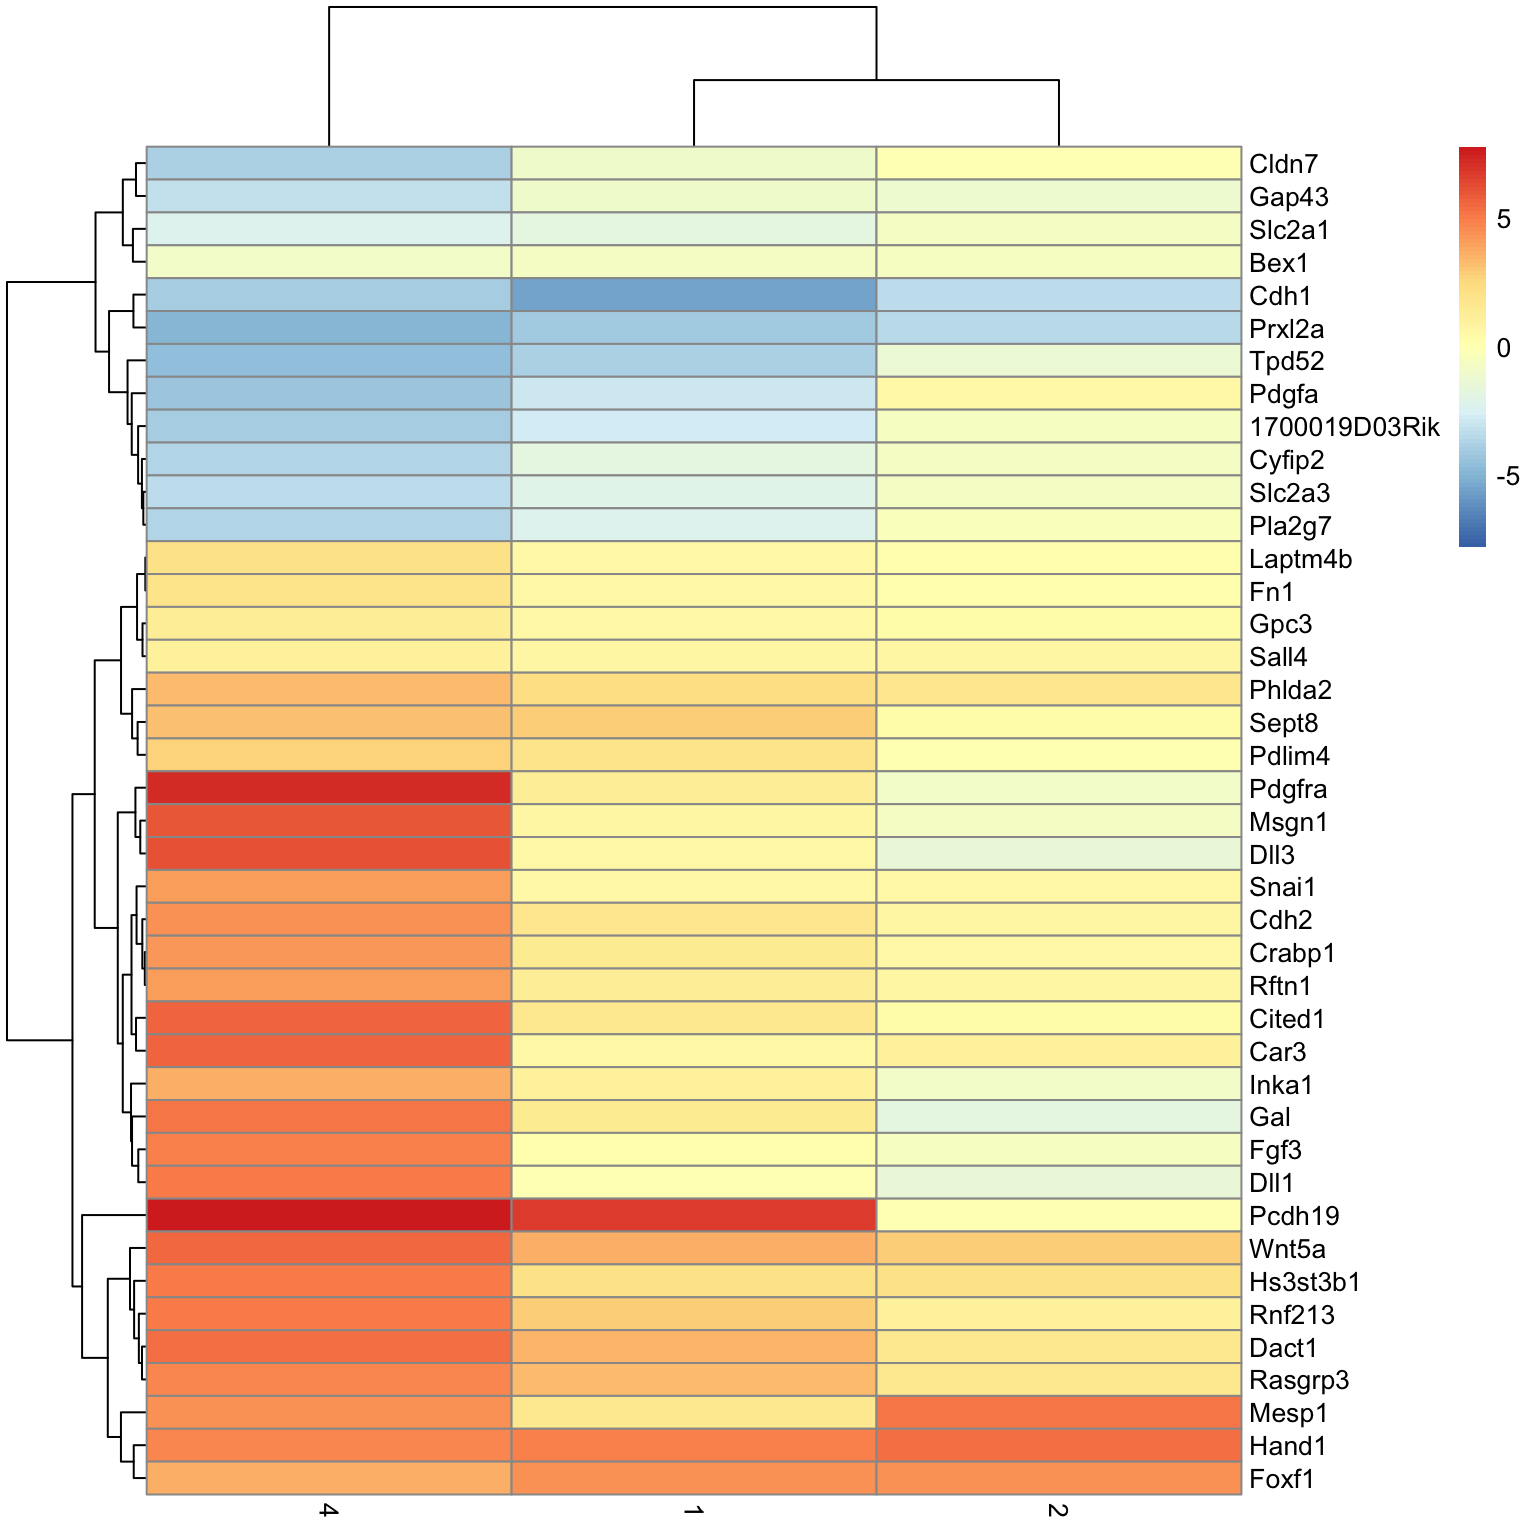
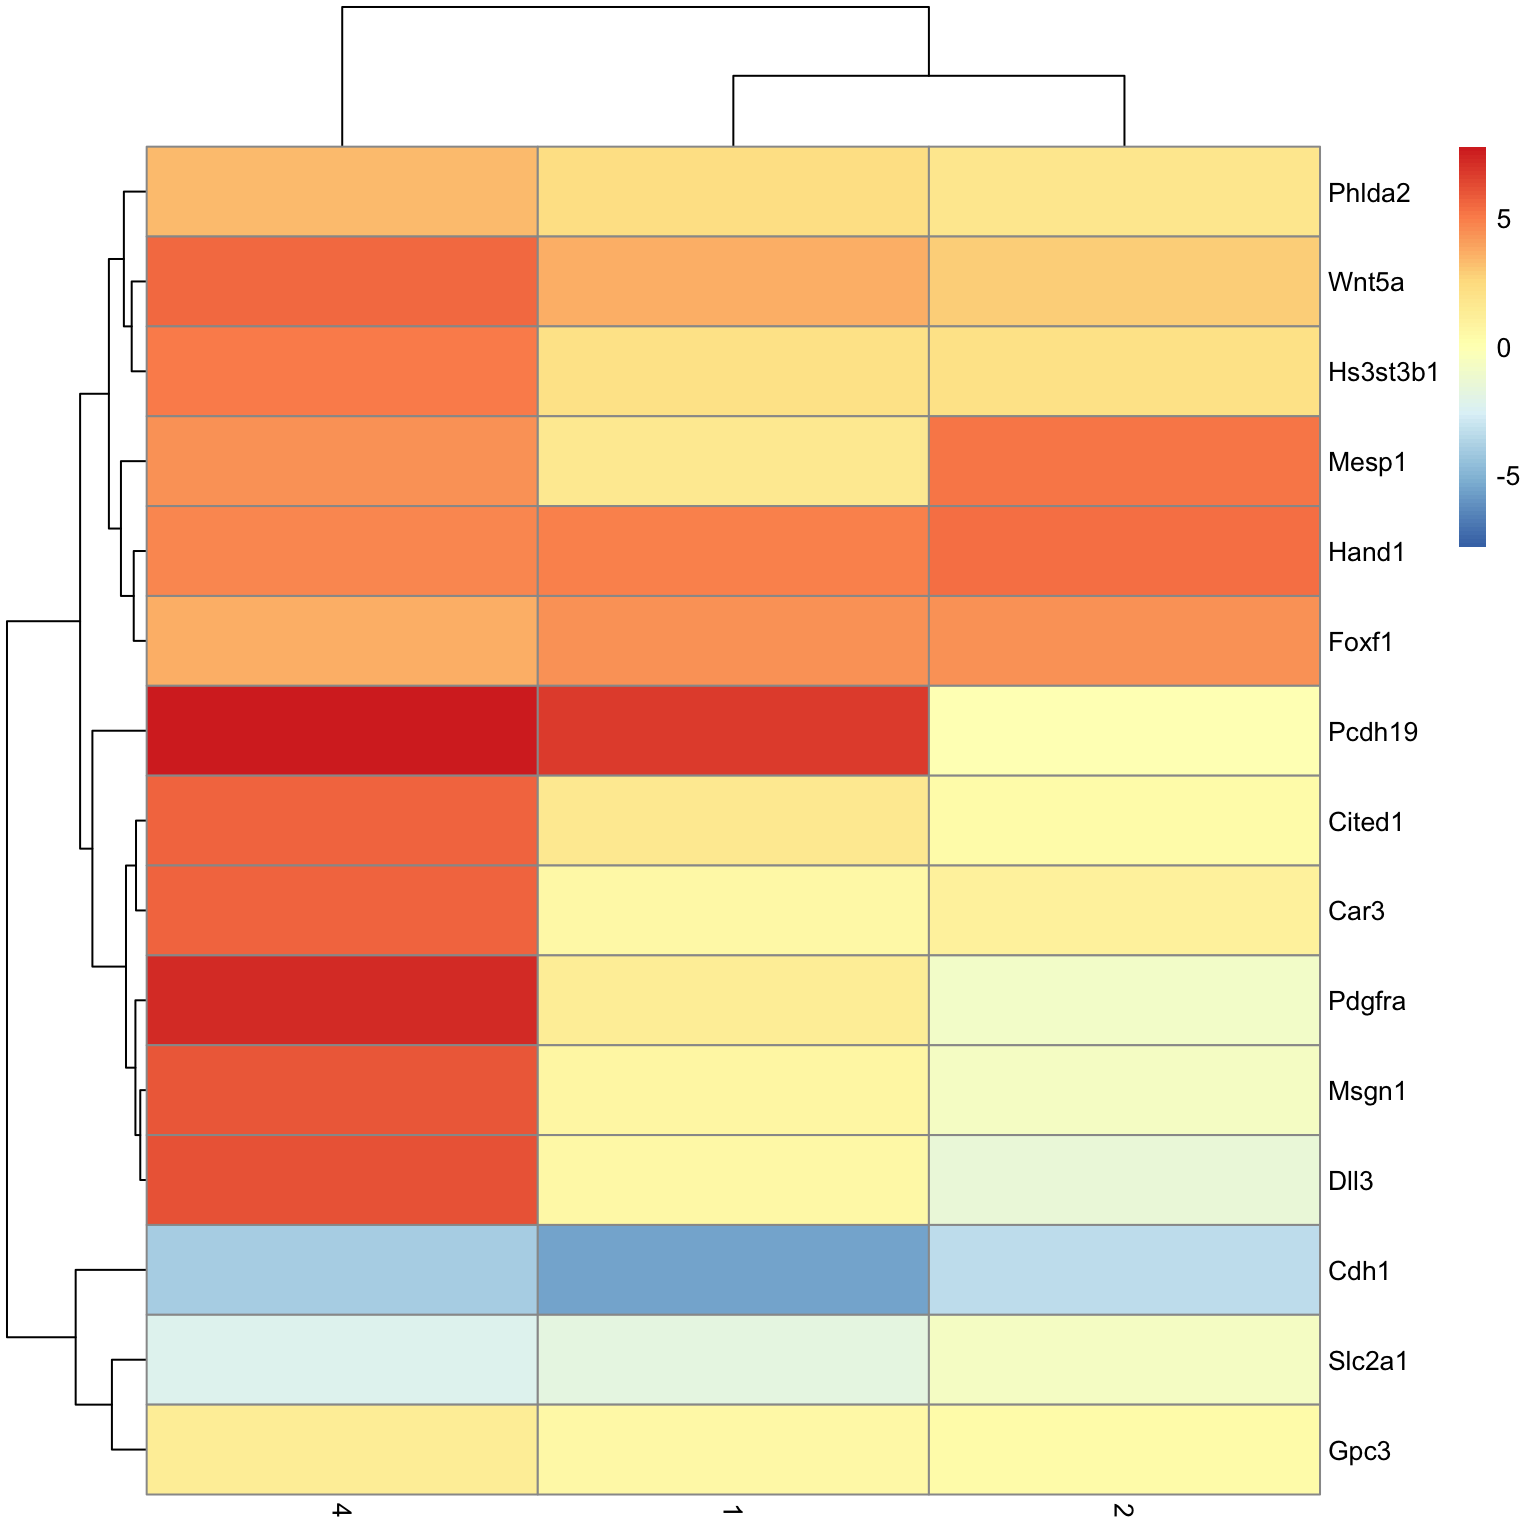
Build

diff --git a/docs/secondary-analysis.html b/docs/secondary-analysis.html
@@ -589,16 +589,16 @@ This reproducible <a href="http://rmarkdown.rstudio.com">R Markdown</a> analysis
 <div class="panel panel-default">
 <div class="panel-heading">
 <p class="panel-title">
-<a data-toggle="collapse" data-parent="#workflowr-checks" href="#strongRepositoryversionstrongahrefhttpsgithubcomjma1991LPMPEHFBtree7d63b3688700bb854c64b33b8bb898df027c70bftargetblank7d63b36a"> <span class="glyphicon glyphicon-ok text-success" aria-hidden="true"></span> <strong>Repository version:</strong> <a href="https://github.com/jma1991/LPMP_EHF_B/tree/7d63b3688700bb854c64b33b8bb898df027c70bf" target="_blank">7d63b36</a> </a>
+<a data-toggle="collapse" data-parent="#workflowr-checks" href="#strongRepositoryversionstrongahrefhttpsgithubcomjma1991LPMPEHFBtree092203d1db178cdc113f2199b4de0982f51481cetargetblank092203da"> <span class="glyphicon glyphicon-ok text-success" aria-hidden="true"></span> <strong>Repository version:</strong> <a href="https://github.com/jma1991/LPMP_EHF_B/tree/092203d1db178cdc113f2199b4de0982f51481ce" target="_blank">092203d</a> </a>
 </p>
 </div>
[2 lines of base64/hex data omitted]
 <div class="panel-body">
 <p>
 Great! You are using Git for version control. Tracking code development and connecting the code version to the results is critical for reproducibility.
 </p>
 <p>
-The results in this page were generated with repository version <a href="https://github.com/jma1991/LPMP_EHF_B/tree/7d63b3688700bb854c64b33b8bb898df027c70bf" target="_blank">7d63b36</a>. See the <em>Past versions</em> tab to see a history of the changes made to the R Markdown and HTML files.
+The results in this page were generated with repository version <a href="https://github.com/jma1991/LPMP_EHF_B/tree/092203d1db178cdc113f2199b4de0982f51481ce" target="_blank">092203d</a>. See the <em>Past versions</em> tab to see a history of the changes made to the R Markdown and HTML files.
 </p>
 <p>
 Note that you need to be careful to ensure that all relevant files for the analysis have been committed to Git prior to generating the results (you can use <code>wflow_publish</code> or <code>wflow_git_commit</code>). workflowr only checks the R Markdown file, but you know if there are other scripts or data files that it depends on. Below is the status of the Git repository when the results were generated:
@@ -668,6 +668,40 @@ Message
 </tr>
 </thead>
 <tbody>
+<tr>
+<td>
+Rmd
+</td>
+<td>
+<a href="https://github.com/jma1991/LPMP_EHF_B/blob/092203d1db178cdc113f2199b4de0982f51481ce/analysis/secondary-analysis.Rmd" target="_blank">092203d</a>
+</td>
+<td>
+James Ashmore
+</td>
+<td>
+2021-03-26
+</td>
+<td>
+Build
+</td>
+</tr>
+<tr>
+<td>
+html
+</td>
+<td>
+<a href="https://rawcdn.githack.com/jma1991/LPMP_EHF_B/a449b56f38b9d806306bd56e43fdc5bdc74dbc3d/docs/secondary-analysis.html" target="_blank">a449b56</a>
+</td>
+<td>
+James Ashmore
+</td>
+<td>
+2021-03-26
+</td>
+<td>
+Build
+</td>
+</tr>
 <tr>
 <td>
 Rmd
@@ -1156,7 +1190,7 @@ sig &lt;- SimpleList(sig)</code></pre>
 <p>Plot heatmap of marker effect sizes:</p>
 <pre class="r"><code>for (n in names(sig)) {
   
-  dat &lt;- sig[[n]]
+  dat &lt;- subset(sig[[n]], Top &lt;= 10)
   
   mat &lt;- getMarkerEffects(dat, prefix = &quot;logFC&quot;)
   
@@ -1194,6 +1228,17 @@ Date
 </tr>
 </thead>
 <tbody>
+<tr>
+<td>
+<a href="https://github.com/jma1991/LPMP_EHF_B/blob/a449b56f38b9d806306bd56e43fdc5bdc74dbc3d/docs/figure/secondary-analysis.Rmd/unnamed-chunk-23-1.png" target="_blank">a449b56</a>
+</td>
+<td>
+James Ashmore
+</td>
+<td>
+2021-03-26
+</td>
+</tr>
 <tr>
 <td>
 <a href="https://github.com/jma1991/LPMP_EHF_B/blob/0926b39811f96bfd740ecbee86e62a4e60ad4a25/docs/figure/secondary-analysis.Rmd/unnamed-chunk-23-1.png" target="_blank">0926b39</a>
@@ -1248,6 +1293,17 @@ Date
 <tbody>
 <tr>
 <td>
+<a href="https://github.com/jma1991/LPMP_EHF_B/blob/a449b56f38b9d806306bd56e43fdc5bdc74dbc3d/docs/figure/secondary-analysis.Rmd/unnamed-chunk-23-2.png" target="_blank">a449b56</a>
+</td>
+<td>
+James Ashmore
+</td>
+<td>
+2021-03-26
+</td>
+</tr>
+<tr>
+<td>
 <a href="https://github.com/jma1991/LPMP_EHF_B/blob/ba02853e51e0b168aff33f86c0b473339e827b94/docs/figure/secondary-analysis.Rmd/unnamed-chunk-23-2.png" target="_blank">ba02853</a>
 </td>
 <td>
@@ -1265,10 +1321,84 @@ James Ashmore
 <div id="label-3-1" class="section level4">
 <h4>Label 3</h4>
 <p><img src="figure/secondary-analysis.Rmd/unnamed-chunk-23-3.png" width="768" style="display: block; margin: auto;" /></p>
+<p>
+<button type="button" class="btn btn-default btn-xs btn-workflowr btn-workflowr-fig" data-toggle="collapse" data-target="#fig-unnamed-chunk-23-3">
+Past versions of unnamed-chunk-23-3.png
+</button>
+</p>
+<div id="fig-unnamed-chunk-23-3" class="collapse">
+<div class="table-responsive">
+<table class="table table-condensed table-hover">
+<thead>
+<tr>
+<th>
+Version
+</th>
+<th>
+Author
+</th>
+<th>
+Date
+</th>
+</tr>
+</thead>
+<tbody>
+<tr>
+<td>
+<a href="https://github.com/jma1991/LPMP_EHF_B/blob/a449b56f38b9d806306bd56e43fdc5bdc74dbc3d/docs/figure/secondary-analysis.Rmd/unnamed-chunk-23-3.png" target="_blank">a449b56</a>
+</td>
+<td>
+James Ashmore
+</td>
+<td>
+2021-03-26
+</td>
+</tr>
+</tbody>
+</table>
+</div>
+</div>
 </div>
 <div id="label-4-1" class="section level4">
 <h4>Label 4</h4>
 <p><img src="figure/secondary-analysis.Rmd/unnamed-chunk-23-4.png" width="768" style="display: block; margin: auto;" /></p>
+<p>
+<button type="button" class="btn btn-default btn-xs btn-workflowr btn-workflowr-fig" data-toggle="collapse" data-target="#fig-unnamed-chunk-23-4">
+Past versions of unnamed-chunk-23-4.png
+</button>
+</p>
+<div id="fig-unnamed-chunk-23-4" class="collapse">
+<div class="table-responsive">
+<table class="table table-condensed table-hover">
+<thead>
+<tr>
+<th>
+Version
+</th>
+<th>
+Author
+</th>
+<th>
+Date
+</th>
+</tr>
+</thead>
+<tbody>
+<tr>
+<td>
+<a href="https://github.com/jma1991/LPMP_EHF_B/blob/a449b56f38b9d806306bd56e43fdc5bdc74dbc3d/docs/figure/secondary-analysis.Rmd/unnamed-chunk-23-4.png" target="_blank">a449b56</a>
+</td>
+<td>
+James Ashmore
+</td>
+<td>
+2021-03-26
+</td>
+</tr>
+</tbody>
+</table>
+</div>
+</div>
 </div>
 </div>
 </div>

diff --git a/docs/index.html b/docs/index.html
@@ -441,16 +441,16 @@ This reproducible <a href="http://rmarkdown.rstudio.com">R Markdown</a> analysis
 <div class="panel panel-default">
 <div class="panel-heading">
 <p class="panel-title">
-<a data-toggle="collapse" data-parent="#workflowr-checks" href="#strongRepositoryversionstrongahrefhttpsgithubcomjma1991LPMPEHFBtree7d63b3688700bb854c64b33b8bb898df027c70bftargetblank7d63b36a"> <span class="glyphicon glyphicon-ok text-success" aria-hidden="true"></span> <strong>Repository version:</strong> <a href="https://github.com/jma1991/LPMP_EHF_B/tree/7d63b3688700bb854c64b33b8bb898df027c70bf" target="_blank">7d63b36</a> </a>
+<a data-toggle="collapse" data-parent="#workflowr-checks" href="#strongRepositoryversionstrongahrefhttpsgithubcomjma1991LPMPEHFBtree092203d1db178cdc113f2199b4de0982f51481cetargetblank092203da"> <span class="glyphicon glyphicon-ok text-success" aria-hidden="true"></span> <strong>Repository version:</strong> <a href="https://github.com/jma1991/LPMP_EHF_B/tree/092203d1db178cdc113f2199b4de0982f51481ce" target="_blank">092203d</a> </a>
 </p>
 </div>
[2 lines of base64/hex data omitted]
 <div class="panel-body">
 <p>
 Great! You are using Git for version control. Tracking code development and connecting the code version to the results is critical for reproducibility.
 </p>
 <p>
-The results in this page were generated with repository version <a href="https://github.com/jma1991/LPMP_EHF_B/tree/7d63b3688700bb854c64b33b8bb898df027c70bf" target="_blank">7d63b36</a>. See the <em>Past versions</em> tab to see a history of the changes made to the R Markdown and HTML files.
+The results in this page were generated with repository version <a href="https://github.com/jma1991/LPMP_EHF_B/tree/092203d1db178cdc113f2199b4de0982f51481ce" target="_blank">092203d</a>. See the <em>Past versions</em> tab to see a history of the changes made to the R Markdown and HTML files.
 </p>
 <p>
 Note that you need to be careful to ensure that all relevant files for the analysis have been committed to Git prior to generating the results (you can use <code>wflow_publish</code> or <code>wflow_git_commit</code>). workflowr only checks the R Markdown file, but you know if there are other scripts or data files that it depends on. Below is the status of the Git repository when the results were generated:
@@ -520,6 +520,23 @@ Message
 </tr>
 </thead>
 <tbody>
+<tr>
+<td>
+html
+</td>
+<td>
+<a href="https://rawcdn.githack.com/jma1991/LPMP_EHF_B/a449b56f38b9d806306bd56e43fdc5bdc74dbc3d/docs/index.html" target="_blank">a449b56</a>
+</td>
+<td>
+James Ashmore
+</td>
+<td>
+2021-03-26
+</td>
+<td>
+Build
+</td>
+</tr>
 <tr>
 <td>
 html
